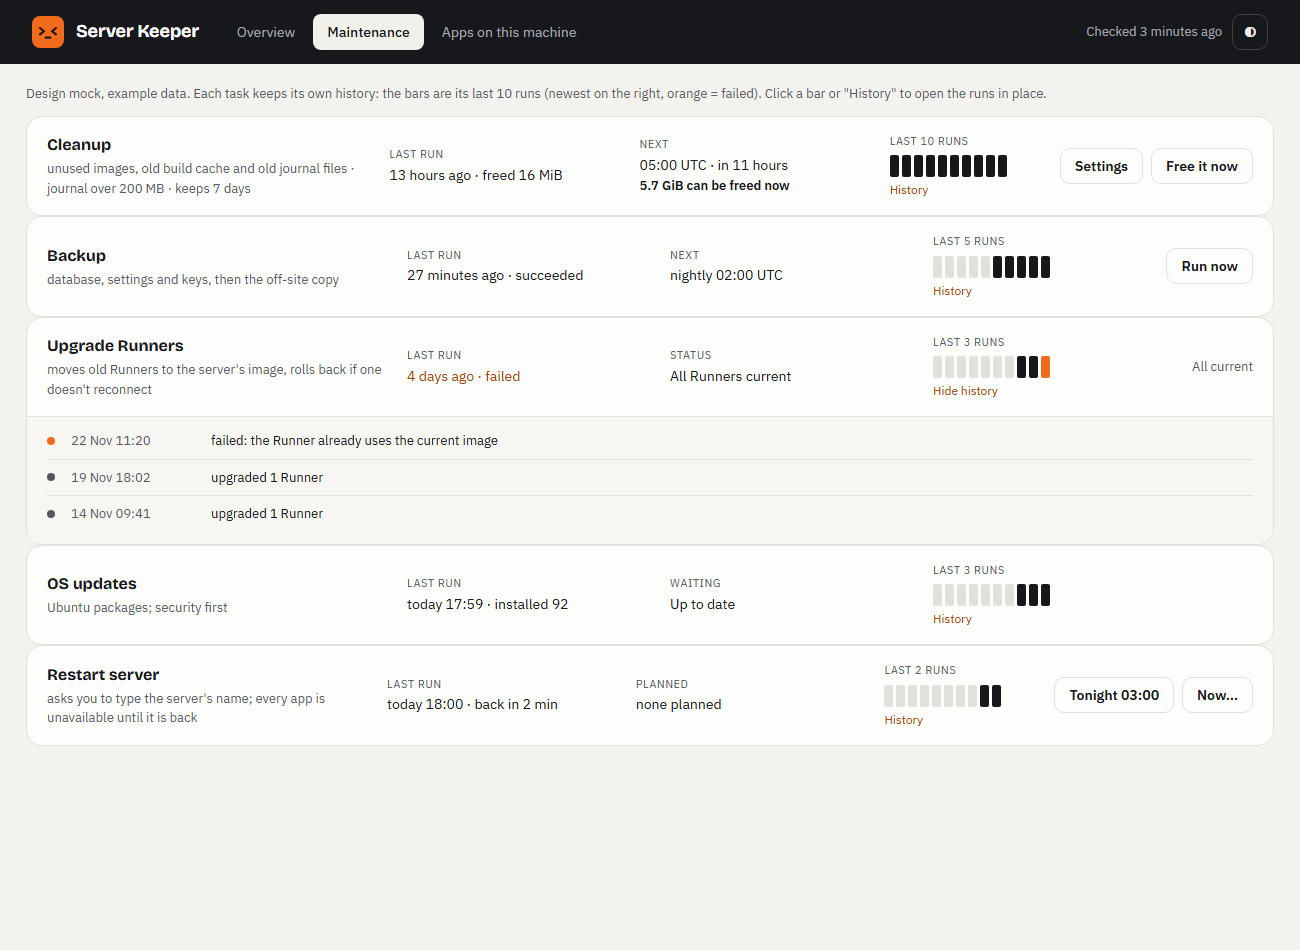
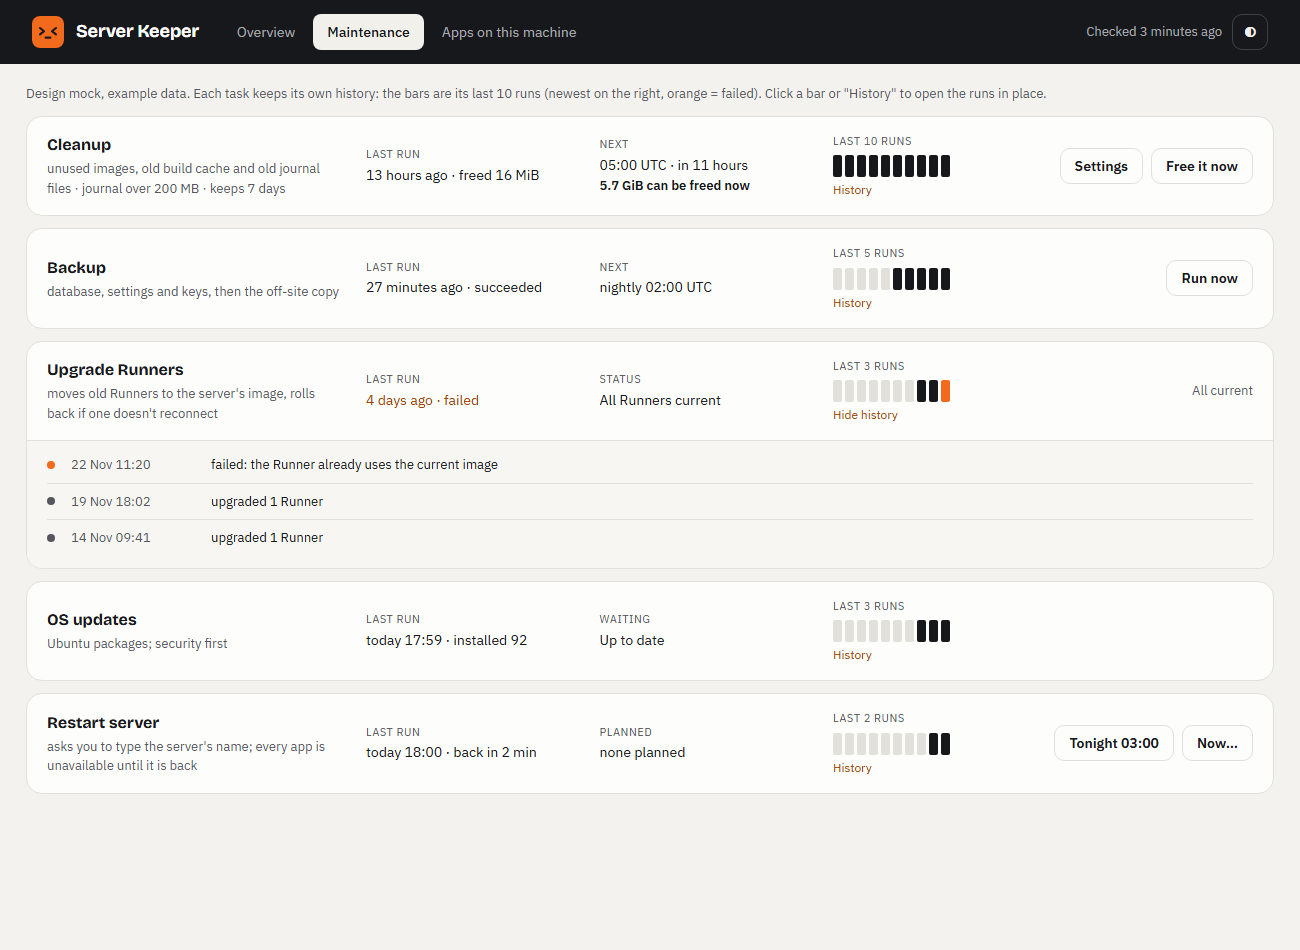
Align the maintenance mock columns

diff --git a/design/mocks/server-keeper-maintenance.html b/design/mocks/server-keeper-maintenance.html
@@ -1,4 +1,4 @@
-<!doctype html><html><head><meta charset="utf-8">
+<!doctype html><html lang="en"><head><meta charset="utf-8"><meta name="viewport" content="width=device-width, initial-scale=1">
 <title>Server Keeper Maintenance</title>
 <meta name="claude:viewport-fit-sides" content="cover">
 <script>document.documentElement.dataset.look="system";</script>
@@ -320,10 +320,11 @@ body{background:var(--bg)}
 .tab.is-on{color:var(--rail);background:var(--rail-text);font-weight:500}
 .a-topbar .a-header__actions{margin-left:auto;display:flex;align-items:center;gap:10px}
 .a-topbar .a-header__sub{color:var(--rail-muted);margin:0;font-size:13px}
+#tasks{display:flex;flex-direction:column;gap:12px}
 .note{font-size:13px;color:var(--muted);margin:0}
 .small{font-size:13px}
 .task{padding:0;overflow:hidden}
-.task__row{display:grid;grid-template-columns:minmax(200px,1.4fr) minmax(160px,1fr) minmax(150px,1fr) 150px minmax(150px,auto);gap:12px 20px;align-items:center;padding:16px 20px}
+.task__row{display:grid;grid-template-columns:minmax(200px,1.4fr) minmax(160px,1fr) minmax(150px,1fr) 150px 250px;gap:12px 20px;align-items:center;padding:16px 20px}
 .task h3{margin:0 0 2px;font-size:16px}
 .task p{margin:0;font-size:13px;color:var(--muted)}
 .lbl{font-size:11px;text-transform:uppercase;letter-spacing:.05em;color:var(--muted);margin-bottom:2px}
